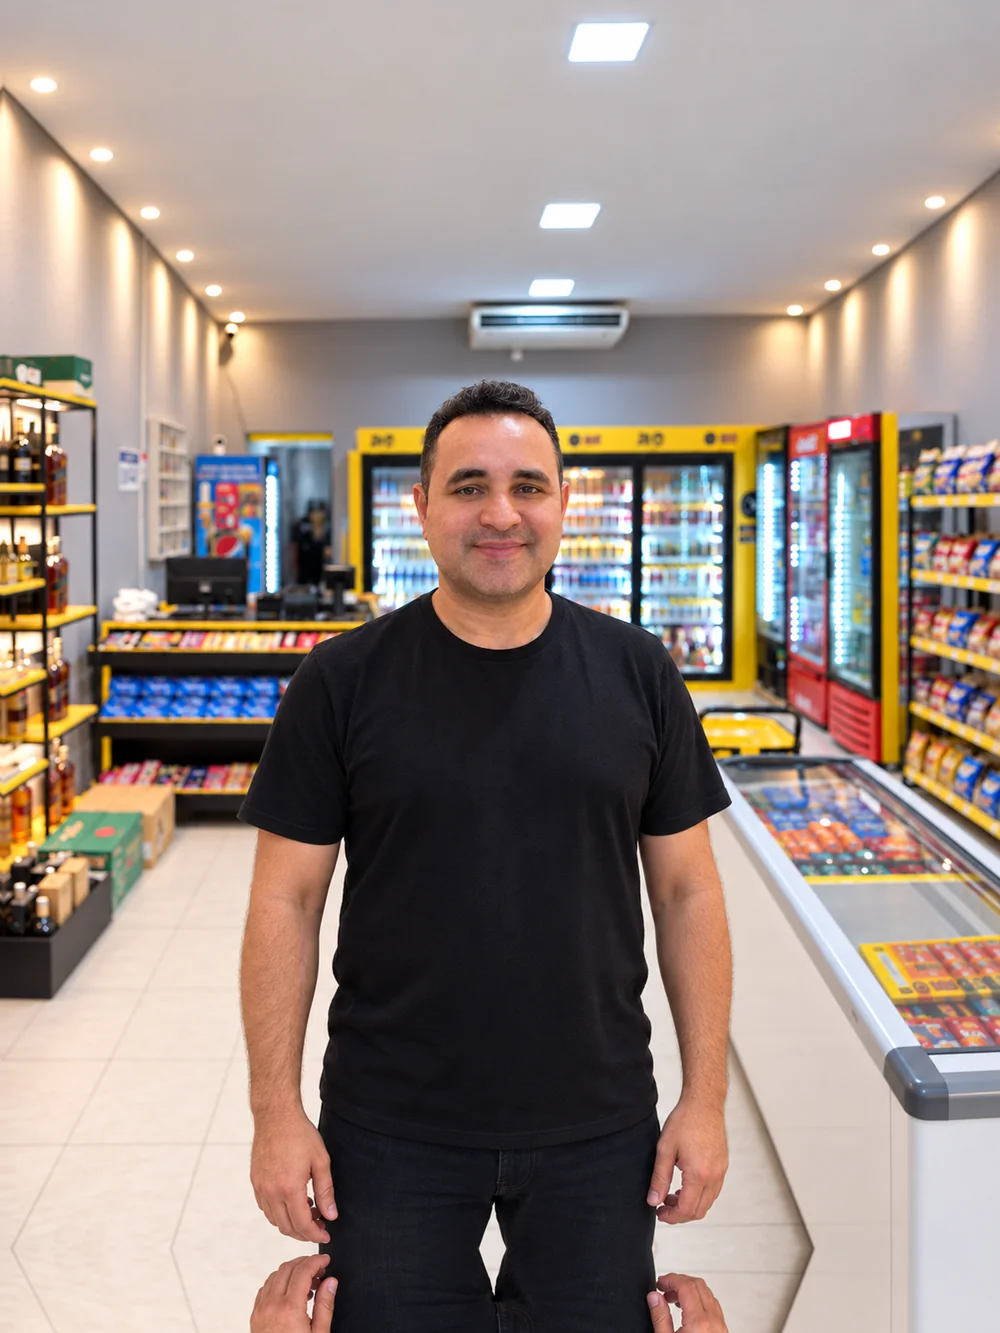
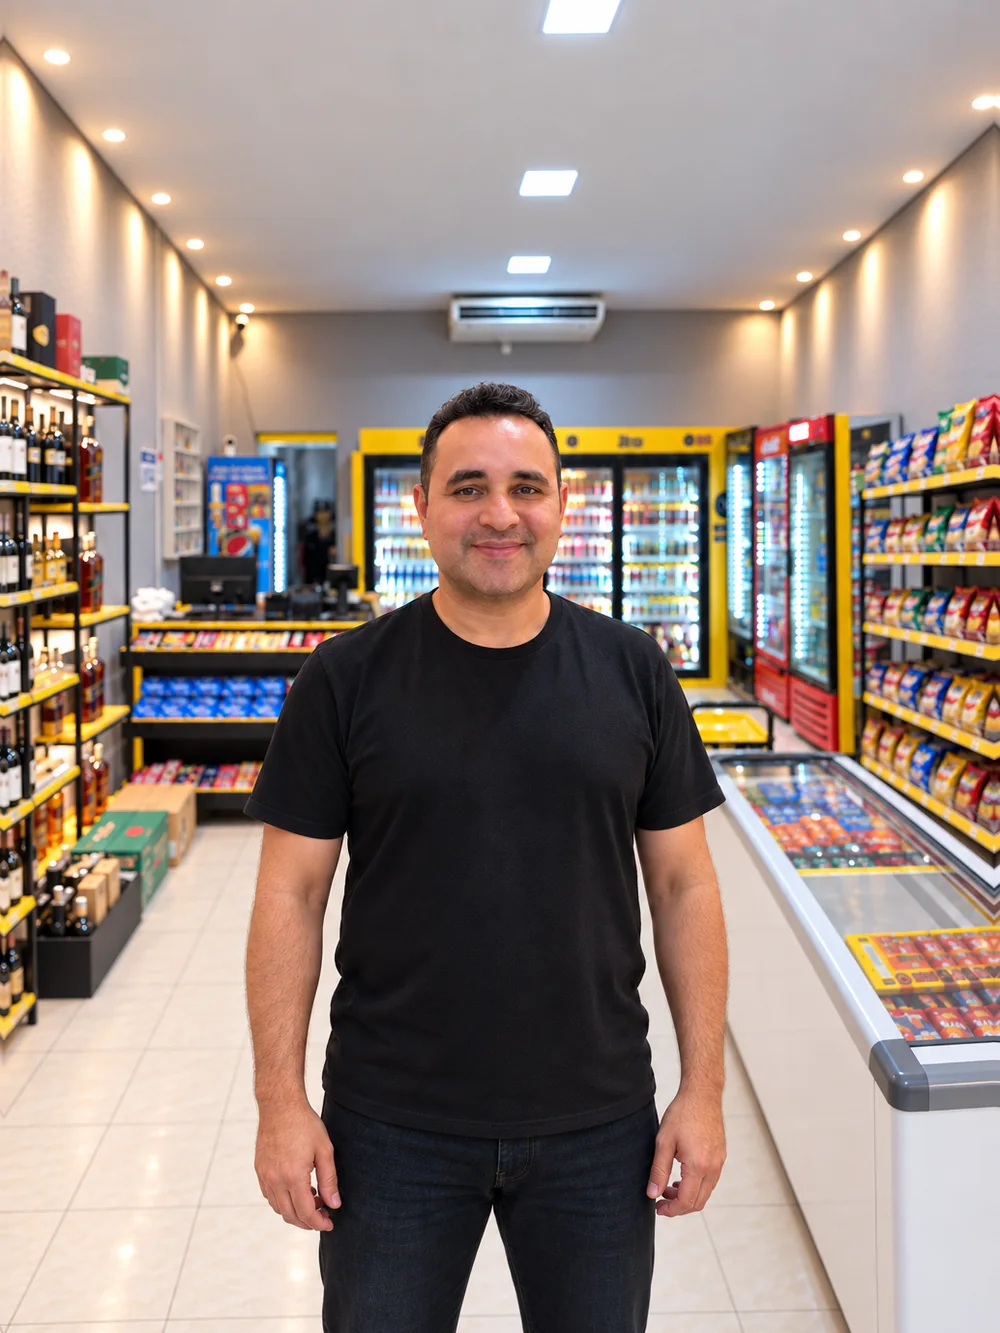
RN Grifes e Naldo ganham cenário de verdade no lugar do espelho
Para padronizar a escala eu vinha estendendo as fotos por espelhamento das
bordas. Em quatro delas passa despercebido, porque o fundo é prateleira. Nessas
duas não: o teto da loja de roupas virou um padrão de espelho com as luminárias
repetidas, e o tronco apareceu duplicado no rodapé. O Victor viu.

As duas foram estendidas DE VERDADE: a cena continua para os lados e para
baixo, gerada a partir da própria foto — araras de roupa e teto com trilhos no
RN Grifes, geladeiras de bebidas e ar-condicionado no Naldo — e o corpo segue
até abaixo do quadril. Uma fotografia só, sem emenda e sem repetição.

Isso destravou um defeito que estava me atrapalhando desde ontem: o gateway de
imagem devolvia sempre a mesma resposta em cache, falando de um pedido antigo.
Não era o gateway — era a CONTA. A `victorfq` estava com uma sessão presa; com
`-a visionxma` o codex responde normalmente. Fica registrado para a próxima vez
que ele parecer "quebrado".

Padrão medido depois da troca, com o detector de rosto, no recorte real do
painel: variação de 4,2 pontos no tamanho do rosto, 0,8 no centro horizontal e
0,1 no vertical.

diff --git a/public/index.html b/public/index.html
@@ -529,8 +529,8 @@
                     </span>
                 </a>
                 <a class="vitrine__item vitrine__item--real" href="/segmentos/loja-de-roupas/">
-                    <img src="/assets/lojistas/vitrine/loja-de-roupas-500.webp?v=f508a239c0"
-                         srcset="/assets/lojistas/vitrine/loja-de-roupas-500.webp?v=f508a239c0 500w, /assets/lojistas/vitrine/loja-de-roupas-1000.webp?v=c60e2f501a 1000w"
+                    <img src="/assets/lojistas/vitrine/loja-de-roupas-500.webp?v=4730b65e5b"
+                         srcset="/assets/lojistas/vitrine/loja-de-roupas-500.webp?v=4730b65e5b 500w, /assets/lojistas/vitrine/loja-de-roupas-1000.webp?v=6187b0bc2d 1000w"
                          sizes="(min-width: 72rem) 680px, (min-width: 48rem) 33vw, 50vw"
                          width="500" height="667" loading="lazy" decoding="async" alt="Neto, da RN Grifes, no caixa da loja de roupas, cliente SoftPay" />
                     <span class="vitrine__selo">RN Grifes · cliente</span>
@@ -540,8 +540,8 @@
                     </span>
                 </a>
                 <a class="vitrine__item vitrine__item--real" href="/segmentos/distribuidora/">
-                    <img src="/assets/lojistas/vitrine/distribuidora-500.webp?v=f7b9db658d"
-                         srcset="/assets/lojistas/vitrine/distribuidora-500.webp?v=f7b9db658d 500w, /assets/lojistas/vitrine/distribuidora-1000.webp?v=a08dab66bf 1000w"
+                    <img src="/assets/lojistas/vitrine/distribuidora-500.webp?v=c5b667f2ce"
+                         srcset="/assets/lojistas/vitrine/distribuidora-500.webp?v=c5b667f2ce 500w, /assets/lojistas/vitrine/distribuidora-1000.webp?v=5e88fb1992 1000w"
                          sizes="(min-width: 72rem) 680px, (min-width: 48rem) 33vw, 50vw"
                          width="500" height="667" loading="lazy" decoding="async" alt="Dono da Naldo Bebidas dentro da distribuidora, cliente SoftPay" />
                     <span class="vitrine__selo">Naldo Bebidas · cliente</span>
